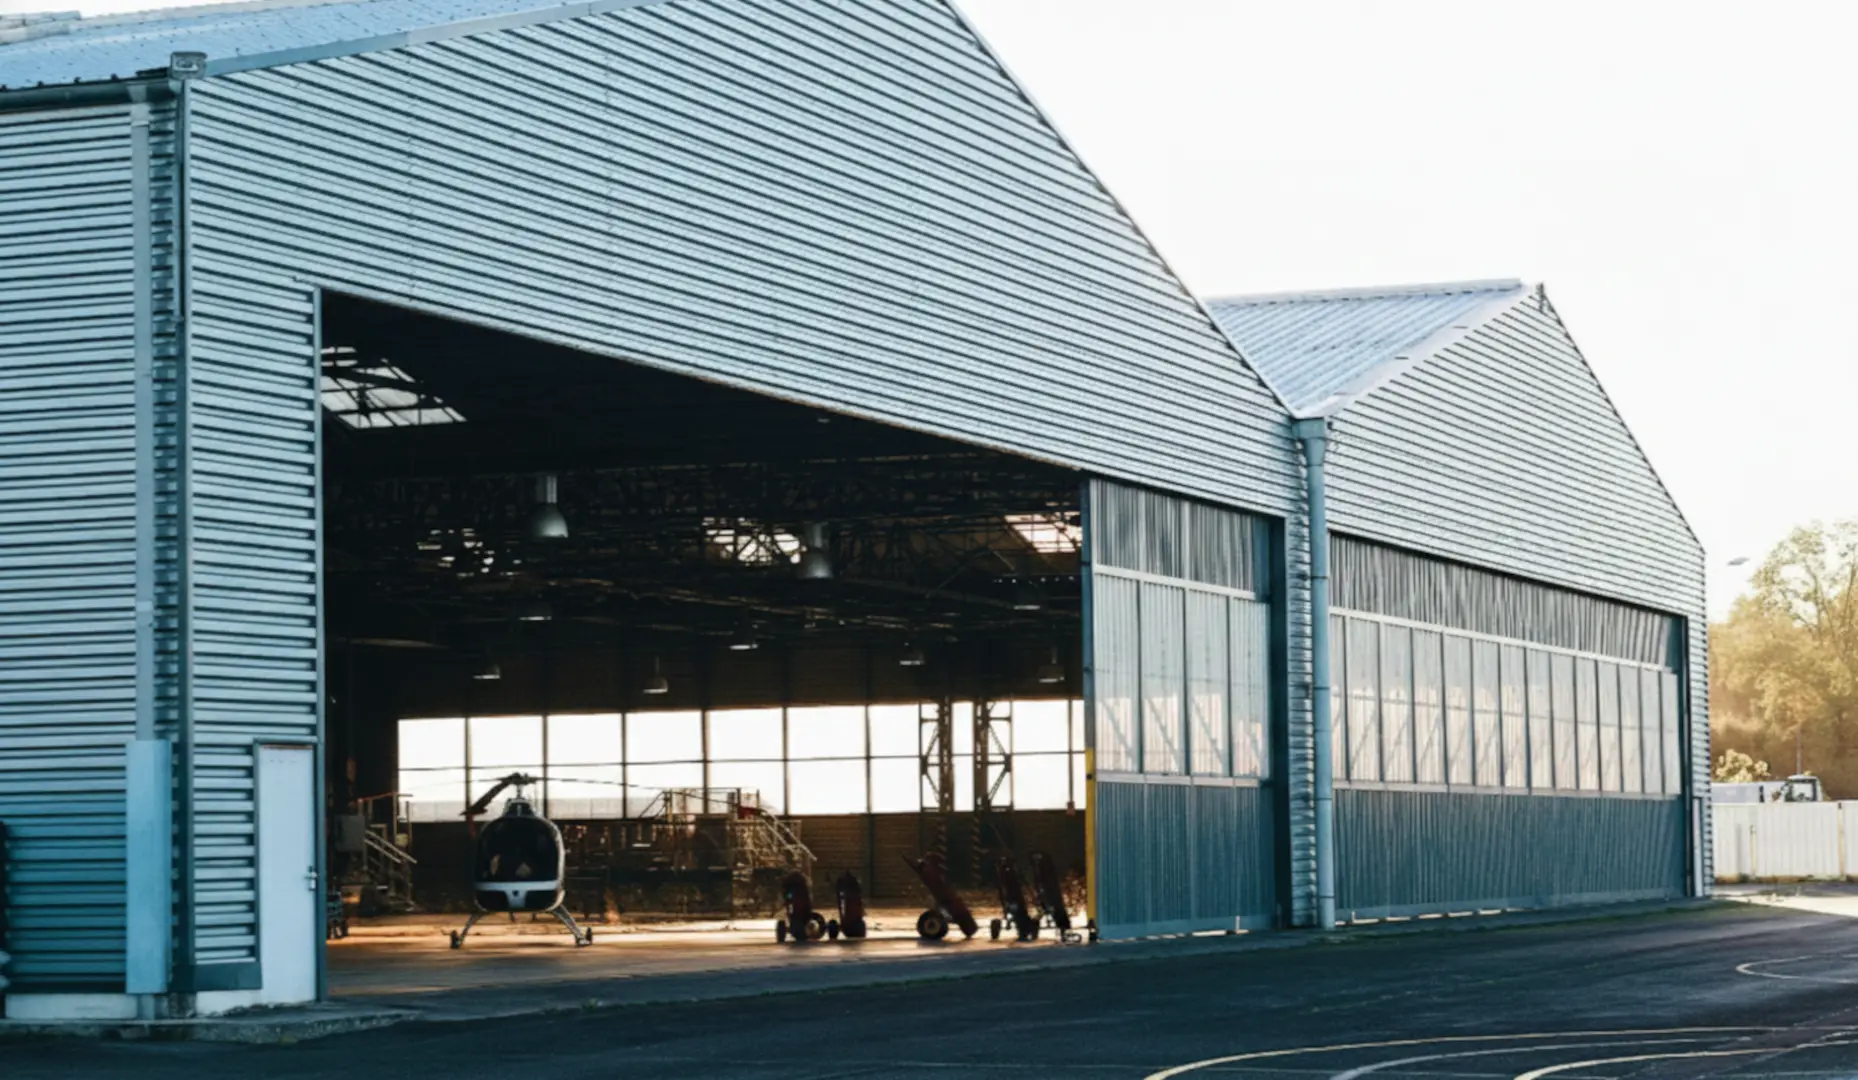
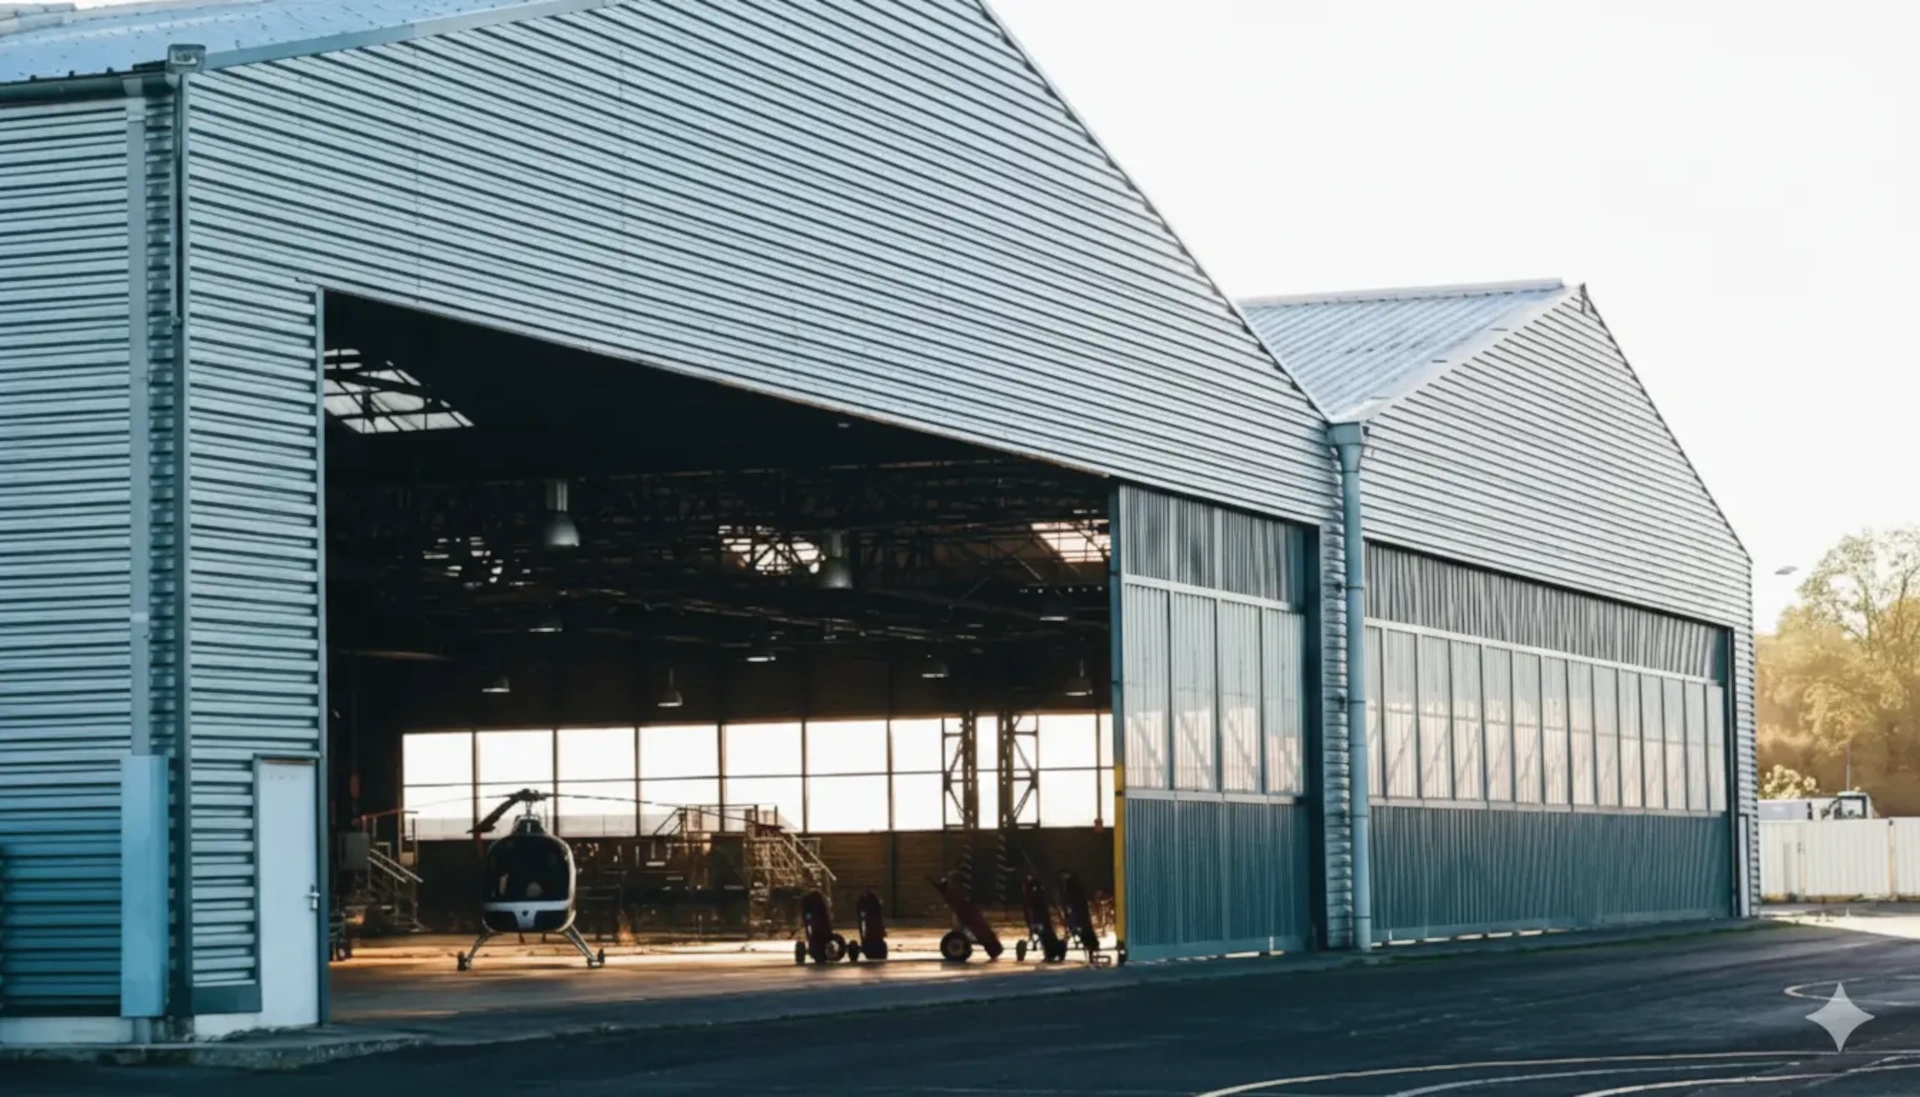
amen

diff --git a/Pruebas/carrusel taillwind.html b/Pruebas/carrusel taillwind.html
@@ -1,0 +1,137 @@
+<!DOCTYPE html>
+<html lang="es">
+<head>
+  <meta charset="UTF-8">
+  <meta name="viewport" content="width=device-width, initial-scale=1.0">
+  <title>Carrusel Tailwind CSS</title>
+  <script src="https://cdn.tailwindcss.com"></script>
+  <style>
+    /* Estilos personalizados para la animación y el carrusel */
+    .carousel-container {
+      position: relative;
+      width: 100%;
+      height: 70vh; /* Altura del carrusel */
+      min-height: 400px; /* Altura mínima para que no se vea muy pequeño */
+      overflow: hidden;
+    }
+
+    .carousel-slide {
+      width: 100%; /* Cada slide ocupa el 100% del contenedor */
+      height: 100%;
+      background-size: cover;
+      background-position: center;
+      position: absolute;
+      top: 0;
+      left: 0;
+      opacity: 0;
+      transition: opacity 1s ease-in-out; /* Transición de la opacidad */
+    }
+
+    .carousel-slide.active {
+      opacity: 1; /* El slide activo es visible */
+    }
+
+    /* Opcional: Filtro oscuro para que el texto resalte */
+    .carousel-slide::after {
+      content: '';
+      position: absolute;
+      inset: 0;
+      background: rgba(0, 0, 0, 0.4); /* Capa oscura semitransparente */
+    }
+
+    .carousel-content {
+      position: absolute;
+      inset: 0;
+      z-index: 10;
+      display: flex;
+      flex-direction: column;
+      justify-content: center;
+      align-items: center;
+      text-align: center;
+      color: white;
+      padding: 2rem;
+    }
+
+    .carousel-indicator {
+      width: 12px;
+      height: 12px;
+      background-color: rgba(255, 255, 255, 0.5);
+      border-radius: 50%;
+      cursor: pointer;
+      transition: background-color 0.3s ease;
+    }
+
+    .carousel-indicator.active {
+      background-color: white;
+    }
+
+    /* Animación de Ken Burns (zoom ligero) */
+    @keyframes kenBurns {
+      0% { transform: scale(1); }
+      100% { transform: scale(1.05); }
+    }
+    .carousel-slide.active img {
+        animation: kenBurns 8s infinite alternate ease-in-out;
+    }
+
+  </style>
+</head>
+<body>
+
+  <div class="carousel-container">
+    <div class="carousel-slide active" style="background-image: url('https://picsum.photos/1920/1080?random=1');">
+      <div class="carousel-content">
+        <h2 class="text-4xl md:text-5xl lg:text-6xl font-extrabold mb-4 drop-shadow-md">Descubre Nuevos Horizontes</h2>
+        <p class="text-lg md:text-xl mb-6 max-w-2xl drop-shadow-sm">Explora destinos increíbles y vive experiencias inolvidables.</p>
+        <button class="bg-blue-600 hover:bg-blue-700 text-white font-bold py-3 px-8 rounded-full shadow-lg transition duration-300">
+          Ver Ofertas
+        </button>
+      </div>
+    </div>
+    
+    <div class="carousel-slide" style="background-image: url('https://picsum.photos/1920/1080?random=2');">
+      <div class="carousel-content">
+        <h2 class="text-4xl md:text-5xl lg:text-6xl font-extrabold mb-4 drop-shadow-md">La Aventura te Espera</h2>
+        <p class="text-lg md:text-xl mb-6 max-w-2xl drop-shadow-sm">Prepárate para la emoción y la belleza de lo desconocido.</p>
+        <button class="bg-purple-600 hover:bg-purple-700 text-white font-bold py-3 px-8 rounded-full shadow-lg transition duration-300">
+          Planifica tu Viaje
+        </button>
+      </div>
+    </div>
+
+    <div class="carousel-slide" style="background-image: url('https://picsum.photos/1920/1080?random=3');">
+        <div class="carousel-content">
+            <h2 class="text-4xl md:text-5xl lg:text-6xl font-extrabold mb-4 drop-shadow-md">Momentos Inolvidables</h2>
+            <p class="text-lg md:text-xl mb-6 max-w-2xl drop-shadow-sm">Captura recuerdos que durarán toda la vida en paisajes únicos.</p>
+            <button class="bg-green-600 hover:bg-green-700 text-white font-bold py-3 px-8 rounded-full shadow-lg transition duration-300">
+                Reserva Ahora
+            </button>
+        </div>
+    </div>
+
+    <div class="carousel-slide" style="background-image: url('https://picsum.photos/1920/1080?random=4');">
+        <div class="carousel-content">
+            <h2 class="text-4xl md:text-5xl lg:text-6xl font-extrabold mb-4 drop-shadow-md">Explora el Mundo</h2>
+            <p class="text-lg md:text-xl mb-6 max-w-2xl drop-shadow-sm">Conecta con nuevas culturas y maravillas naturales.</p>
+            <button class="bg-red-600 hover:bg-red-700 text-white font-bold py-3 px-8 rounded-full shadow-lg transition duration-300">
+                Más Información
+            </button>
+        </div>
+    </div>
+
+    <div class="carousel-slide" style="background-image: url('https://picsum.photos/1920/1080?random=5');">
+        <div class="carousel-content">
+            <h2 class="text-4xl md:text-5xl lg:text-6xl font-extrabold mb-4 drop-shadow-md">Tu Próxima Escapada</h2>
+            <p class="text-lg md:text-xl mb-6 max-w-2xl drop-shadow-sm">Encuentra la inspiración para tu viaje perfecto.</p>
+            <button class="bg-yellow-600 hover:bg-yellow-700 text-white font-bold py-3 px-8 rounded-full shadow-lg transition duration-300">
+                Descubre Aquí
+            </button>
+        </div>
+    </div>
+
+    <div class="absolute bottom-6 left-1/2 -translate-x-1/2 flex space-x-3 z-20">
+      <div class="carousel-indicator active" onclick="goToSlide(0)"></div>
+      <div class="carousel-indicator" onclick="goToSlide(1)"></div>
+      <div class="carousel-indicator" onclick="goToSlide(2)"></div>
+      <div class="carousel-indicator" onclick="goToSlide(3)"></div>
+      <div class

diff --git a/index.html b/index.html
@@ -35,8 +35,8 @@
 
 
   <!-- Preload hero images -->
-  <link rel="preload" as="image" href="/assets/images/Banner-Webp/distribucion-yellow-mobile.webp" media="(max-width: 600px)" fetchpriority="high">
-  <link rel="preload" as="image" href="/assets/images/Banner-Webp/distribucion yellow.webp" media="(min-width: 601px)" fetchpriority="high">
+  <link rel="preload" as="image" href="/assets/images/Banner-Webp/Roll .webp" media="(max-width: 600px)" fetchpriority="high">
+  <link rel="preload" as="image" href="/assets/images/Banner-Webp/Roll .webp" media="(min-width: 601px)" fetchpriority="high">
 
   <!-- Favicon -->
   <link rel="icon" href="/assets/favicon.ico" type="image/x-icon">
@@ -275,9 +275,9 @@
         <div class="hero__carrusel" role="region" aria-label="Image slideshow">
             <div class="hero__track">
                 <div class="hero__slide active" role="group" aria-roledescription="slide" aria-label="1 of 5" id="slide-1">
-                    <img src="/assets/images/Banner-Webp/distribucion-yellow.webp" 
-                        srcset="/assets/images/Banner-Webp/distribucion-yellow-mobile.webp 600w,
-                                /assets/images/Banner-Webp/distribucion-yellow.webp 1200w"
+                    <img src="/assets/images/Banner-Webp/Roll.webp" 
+                        srcset="/assets/images/Banner-Webp/Roll-mobile.webp 600w,
+                                /assets/images/Banner-Webp/Roll.webp 1200w"
                         sizes="(max-width: 600px) 100vw, 1200px" 
                         width="1920" height="1080" 
                         class="hero__img" 
@@ -287,7 +287,7 @@
                 </div>
 
                 <div class="hero__slide" role="group" aria-roledescription="slide" aria-label="2 of 5" id="slide-2">
-                    <img src="/assets/images/Banner-Webp/offices.webp" width="1400" height="1080"
+                    <img src="/assets/images/Banner-Webp/Hangar-Door.webp" width="1920" height="1080"
                          class="hero__img kb-effect" 
                          alt="Glass commercial entrance doors installed in corporate office building"
                          itemprop="image"
@@ -298,7 +298,7 @@
                 </div>
 
                 <div class="hero__slide" role="group" aria-roledescription="slide" aria-label="3 of 5" id="slide-3">
-                    <img src="/assets/images/Banner-Webp/parallax-doors.webp" width="1400" height="1080"
+                    <img src="/assets/images/Banner-Webp/offices.webp" width="1920" height="1080"
                          class="hero__img kb-effect" 
                          alt="High speed industrial door maintenance and service for distribution centers"
                          itemprop="image" 
@@ -309,7 +309,7 @@
                 </div>
 
                 <div class="hero__slide" role="group" aria-roledescription="slide" aria-label="4 of 5" id="slide-4">
-                    <img src="/assets/images/Banner-Webp/PORTADA PRINCIPAL.webp" width="1400" height="1080"
+                    <img src="/assets/images/Banner-Webp/door.webp" width="1920" height="1080"
                          class="hero__img kb-effect" 
                          alt="Commercial steel rolling doors built for industrial facilities"
                          itemprop="image" 
@@ -320,7 +320,7 @@
                 </div>
 
                 <div class="hero__slide" role="group" aria-roledescription="slide" aria-label="5 of 5" id="slide-5">
-                    <img src="/assets/images/Banner-Webp/Roll-King-Door-.webp" width="1400" height="1080"
+                    <img src="/assets/images/Banner-Webp/Roll-King-Door.webp" width="1920" height="1080"
                          class="hero__img kb-effect" 
                          alt="Loading dock and sectional door repair service for industrial properties"
                          itemprop="image" 

diff --git a/css/styles.css b/css/styles.css
@@ -700,11 +700,11 @@ a { text-decoration: none; color: inherit; }
 .hero {
     position: relative;
     width: 100%;
-    height: 80vh; /* Altura controlada para Desktop */
-    min-height: 600px;
+    aspect-ratio: 16 / 9;
     overflow: hidden;
     background-color: #223248;
 }
+
 
 .hero-custom {
     width: 100%;
@@ -735,19 +735,24 @@ a { text-decoration: none; color: inherit; }
 }
 
 /* --- La Imagen: Aquí corregimos el Zoom --- */
+/* --- 1. TU CÓDIGO BASE (Mantenlo como está) --- */
+/* --- 1. AJUSTE GLOBAL --- */
 .hero__img {
     width: 100% !important;
-    height: 100% !important; /* Cambiado de auto a 100% para evitar el zoom excesivo */
+    height: 100% !important;
     object-fit: cover;
-    object-position: center center;
+    /* Cambiamos 20% por 50% (centro) para que no empiece tan arriba el corte */
+    object-position: center center; 
     filter: brightness(0.5);
-    /* Efecto Ken Burns suavizado para no pixelar en Desktop */
-    animation: kenBurnsFade 10s infinite alternate ease-in-out;
+    /* Bajamos el zoom al 5% (1.05) para ganar área visible */
+    animation: kenBurnsFade 12s infinite alternate ease-in-out;
 }
 
+
+/* --- 3. SUAVIZAR EL ZOOM --- */
 @keyframes kenBurnsFade {
     from { transform: scale(1); }
-    to { transform: scale(1.08); } /* Bajado de 1.15 a 1.08 para reducir el zoom visual */
+    to { transform: scale(1.05); } /* Si pones 1.08 o 1.1, cortas más la foto por los 4 lados */
 }
 
 @keyframes slideHeroCustom {
@@ -903,12 +908,35 @@ a { text-decoration: none; color: inherit; }
 }
 
 /* Desktop Fix */
+/* Desktop ONLY */
 @media (min-width: 1024px) {
+
     .hero {
-        height: 85vh; /* Altura imponente en escritorio */
+        height: 85vh;
+        max-height: 900px;
+    }
+
+    #slide-1 .hero__img {
+        object-position: center center;
+    }
+
+    #slide-2 .hero__img {
+        object-position: center 40%;
+    }
+
+    #slide-3 .hero__img {
+        object-position: center 55%;
+    }
+
+    #slide-4 .hero__img {
+        object-position: center 45%;
+    }
+
+    #slide-5 .hero__img {
+        object-position: center 50%;
     }
 }
-    
+
 
 
 
